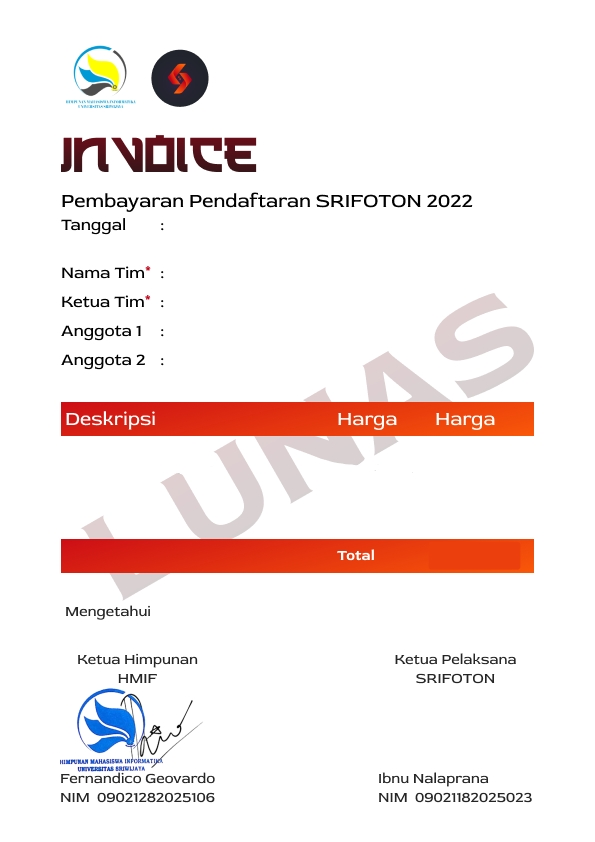
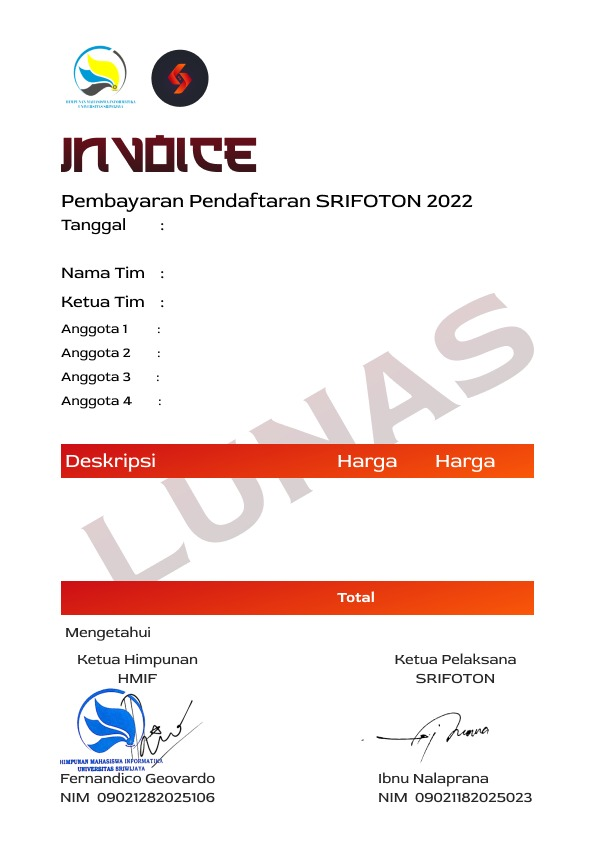
Invoice

diff --git a/common/invoice/method.go b/common/invoice/method.go
@@ -11,13 +11,13 @@ func CreateInvoiceDetails(t teamDomain.Team) InvoiceDetails {
 	var price string
 	switch string(t.Competition) {
 	case "CP":
-		price = "100000"
+		price = "Rp100000"
 	case "UI/UX":
-		price = "80000"
+		price = "Rp80000"
 	case "WEB":
-		price = "60000"
+		price = "Rp60000"
 	case "ESPORT":
-		price = "50000"
+		price = "Rp50000"
 	}
 
 	invoiceDetails := InvoiceDetails{
@@ -26,6 +26,9 @@ func CreateInvoiceDetails(t teamDomain.Team) InvoiceDetails {
 		LeaderName:      t.Leader.Name,
 		MemberOne:       t.Member1.Name,
 		MemberTwo:       t.Member2.Name,
+		MemberThree:     t.Member3.Name,
+		MemberFour:      t.Member4.Name,
+		MemberFive:      "Anggota 5   : " + t.Member5.Name,
 		CompetitionName: t.GetUCompetitionTypeString(),
 		Price:           price,
 	}
@@ -39,6 +42,9 @@ func (i InvoiceDetails) MapToArray() []string {
 		i.LeaderName,
 		i.MemberOne,
 		i.MemberTwo,
+		i.MemberThree,
+		i.MemberFour,
+		i.MemberFive,
 		i.CompetitionName,
 		i.Price,
 		i.Price,

diff --git a/common/invoice/init.go b/common/invoice/init.go
@@ -28,13 +28,13 @@ func NewInvoiceManager(invoicePath string) *InvoiceManager {
 
 	textName := []string{
 		"date", "team_name", "leader_name",
-		"member1_name", "member2_name",
+		"member1_name", "member2_name", "member3_name", "member4_name", "member5_name",
 		"competition_name",
 		"competition_price",
 		"competition_total_price",
 		"total_payment",
 	}
-	textProperties := make([]Properties, 9)
+	textProperties := make([]Properties, 12)
 	for i := 0; i < len(textProperties); i++ {
 		textProperties[i] = Properties{
 			FontPath:  viper.GetString("config." + textName[i] + ".font_path"),

diff --git a/common/invoice/type.go b/common/invoice/type.go
@@ -22,6 +22,9 @@ type InvoiceDetails struct {
 	LeaderName      string
 	MemberOne       string
 	MemberTwo       string
+	MemberThree     string
+	MemberFour      string
+	MemberFive      string
 	CompetitionName string
 	Price           string
 }
